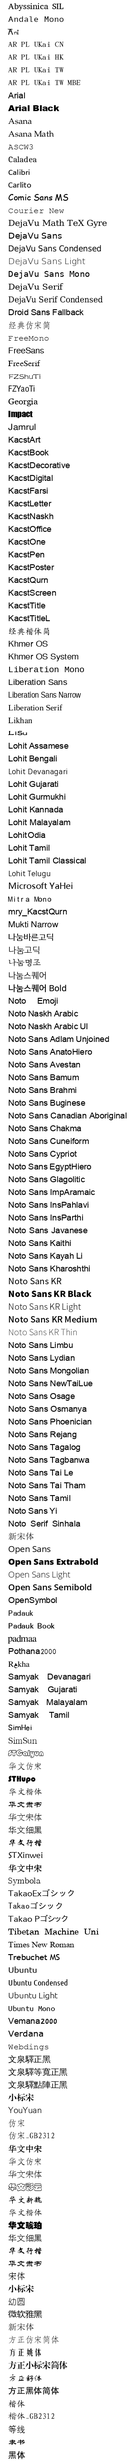
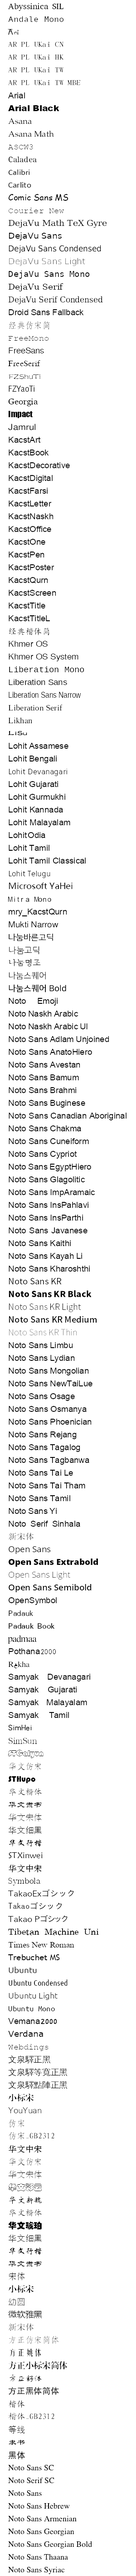
fix(fonts): rebuild the png sprites from their masks, so the pair agrees
Each font-picker sprite ships twice: the run-length alpha mask every
browser reads (*.png.bin) and an RGBA png only the ONLYOFFICE desktop
shell reads (supportBinaryFormat is false only when Desktop.isActive()).
#218's fix appended nine tiles to the masks and left the pngs at 193 --
correct for every browser, and a latent inconsistency for anything that
reads the other file.

Two encodings of one picture drift unless one is generated from the
other, so bin/font-thumbnails.mjs now rebuilds each png from its mask
rather than appending to it: same tile count, same pixels, by
construction. It reports and repairs that drift on its own, so a mask
edited by hand cannot leave the png behind.

bin/lib/png.mjs is just enough PNG for the one shape these files use --
8-bit RGBA, no interlacing -- with a decoder so the check can be an
equality rather than a size comparison: the new unit case decodes both
files and requires the alpha channels to be identical.

Claude-Session: https://claude.ai/code/session_01MKNHFQ1kek1cHeqhbH37Pk

Changed region(s): [[0.06, 0.0, 0.75, 1.0], [0.45, 0.8394, 0.48, 0.8705]]

diff --git a/test/unit/font-catalog-licensing.test.ts b/test/unit/font-catalog-licensing.test.ts
@@ -5,6 +5,7 @@ import { describe, expect, it } from 'vitest';
 import { X2TConverter } from '@ranuts/converter';
 
 import { glyphId, readNames, xorPrefix } from '../../bin/lib/sfnt.mjs';
+import { decodeAlphaPng } from '../../bin/lib/png.mjs';
 
 /**
  * The font catalog is redistributed from a public repository and a public
@@ -151,6 +152,36 @@ describe('font picker thumbnail sprites', () => {
       const header = readFileSync(resolve(IMAGES, name)).subarray(0, 12);
       const tiles = header.readUInt32BE(8);
       expect(tiles, `${name} has ${tiles} tiles for ${families} families`).toBeGreaterThanOrEqual(families);
+    }
+  });
+
+  it('keeps each png twin pixel-identical to the mask beside it', () => {
+    // The sprite ships twice: the run-length alpha mask every browser reads,
+    // and an RGBA png only the ONLYOFFICE desktop shell reads
+    // (`supportBinaryFormat` is false only when `Desktop.isActive()`). Two
+    // encodings of one picture drift unless one is generated from the other --
+    // which is what bin/font-thumbnails.mjs does, and this is the check that
+    // it was run.
+    for (const name of spriteNames) {
+      const bytes = readFileSync(resolve(IMAGES, name));
+      const width = bytes.readUInt32BE(0);
+      const heightOne = bytes.readUInt32BE(4);
+      const tiles = bytes.readUInt32BE(8);
+      const mask = new Uint8Array(width * heightOne * tiles);
+      let offset = 12;
+      let at = 0;
+      while (offset < bytes.length) {
+        const value = bytes[offset++];
+        if (value === 0) at += bytes[offset++];
+        else mask[at++] = value;
+      }
+
+      const png = decodeAlphaPng(readFileSync(resolve(IMAGES, name.replace(/\.bin$/, ''))));
+      expect({ width: png.width, height: png.height }, `${name} png size`).toEqual({
+        width,
+        height: heightOne * tiles,
+      });
+      expect(Buffer.from(png.alpha).equals(Buffer.from(mask)), `${name} png differs from its mask`).toBe(true);
     }
   });
 

diff --git a/CLAUDE.md b/CLAUDE.md
@@ -997,9 +997,11 @@ v7 代码分支（OO_VARIANT、页面级 x2t 打开转换、empty_bin 模板、v
      `RangeError: Invalid typed array length` —— 滑到底直接抛，之后每次滚动再抛一次，
      文档没法编辑了。上游不会踩是因为 `allfontsgen` 一次性写出 AllFonts.js 和精灵图
      （对照一个官方部署：144 families / 144 瓦片），我们是手改目录的。
-     改完目录跑 `node bin/font-thumbnails.mjs`（幂等，只补缺的；`--check` 只报不写），
+     改完目录跑 `node bin/font-thumbnails.mjs`（幂等，只补缺的；`--check` 只报不写）——它同时
+     **从掩码重建 `.png` 孪生文件**（只有 ONLYOFFICE 桌面壳读它，浏览器永远走不到，但一张图两种
+     编码不由同一处生成就会走散），
      `font-catalog-licensing.test.ts` 钉住"每张精灵图的瓦片数 ≥ family 数"且
-     "解码像素数正好等于 width×heightOne×count"，
+     "解码像素数正好等于 width×heightOne×count"、"`.png` 的 alpha 通道与 `.bin` 掩码逐像素相同"，
      `test/e2e/font-picker-scroll.spec.ts` 走用户路径把列表滑到底。见
      docs/explorations/2026-09-12-font-picker-sprite-shorter-than-catalog.md。
   3. **回退区间背后的字体必须真的有那些字**。picker 查一次 `__fonts_ranges` 就
